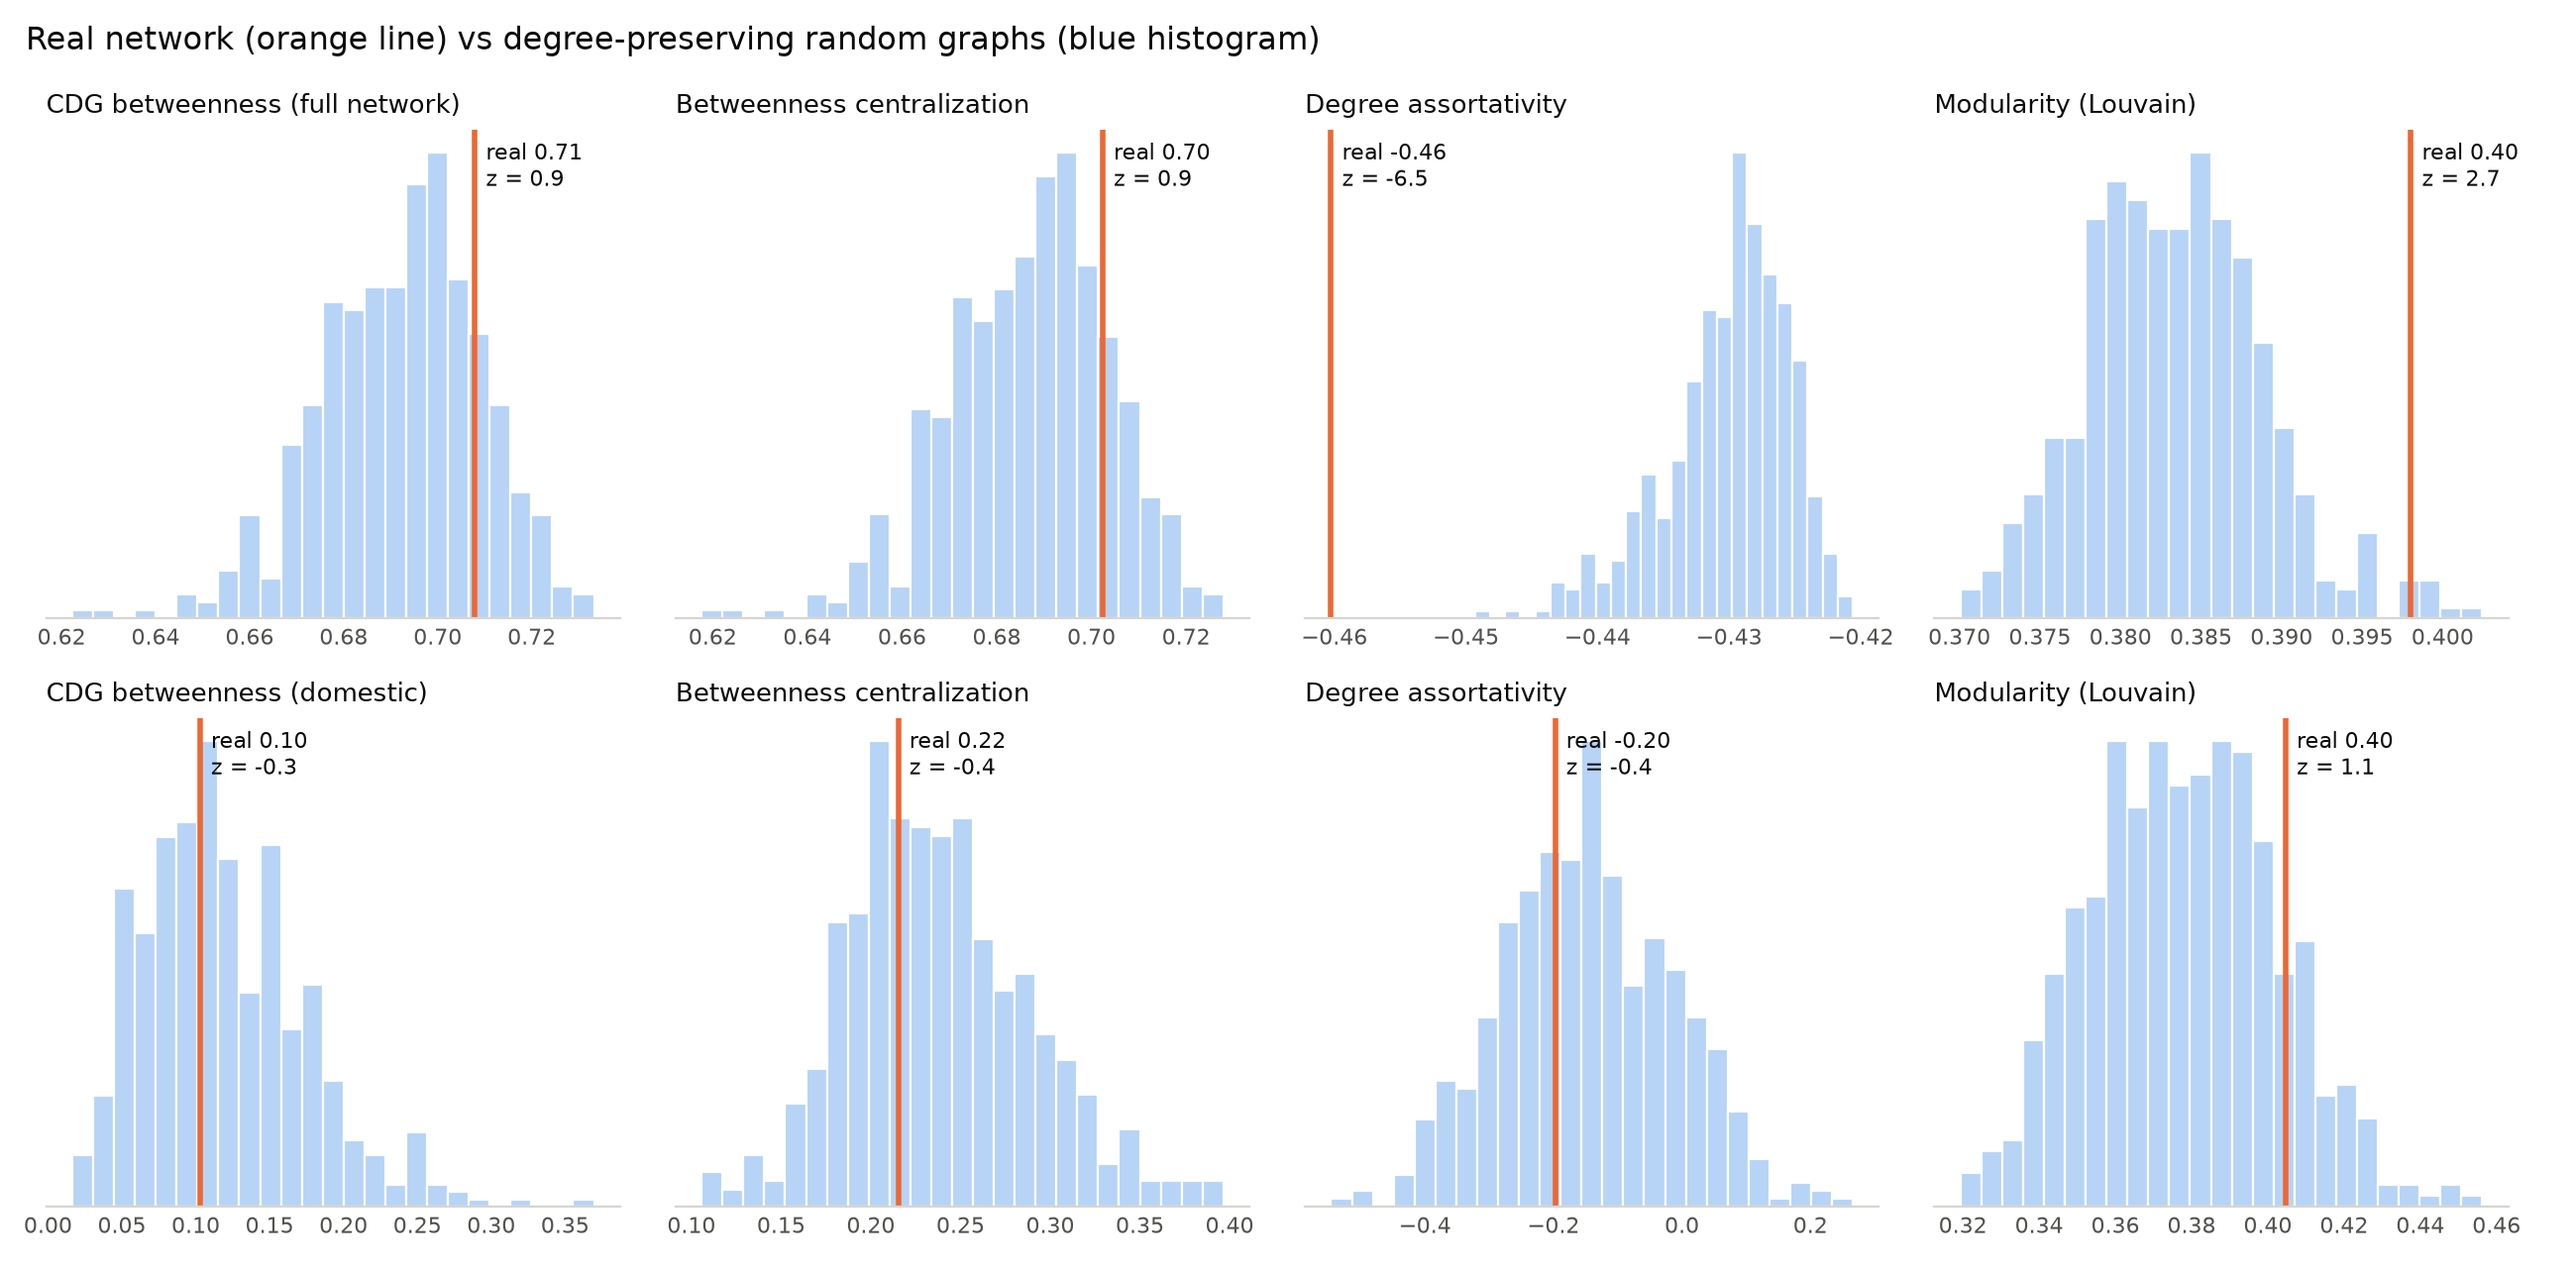
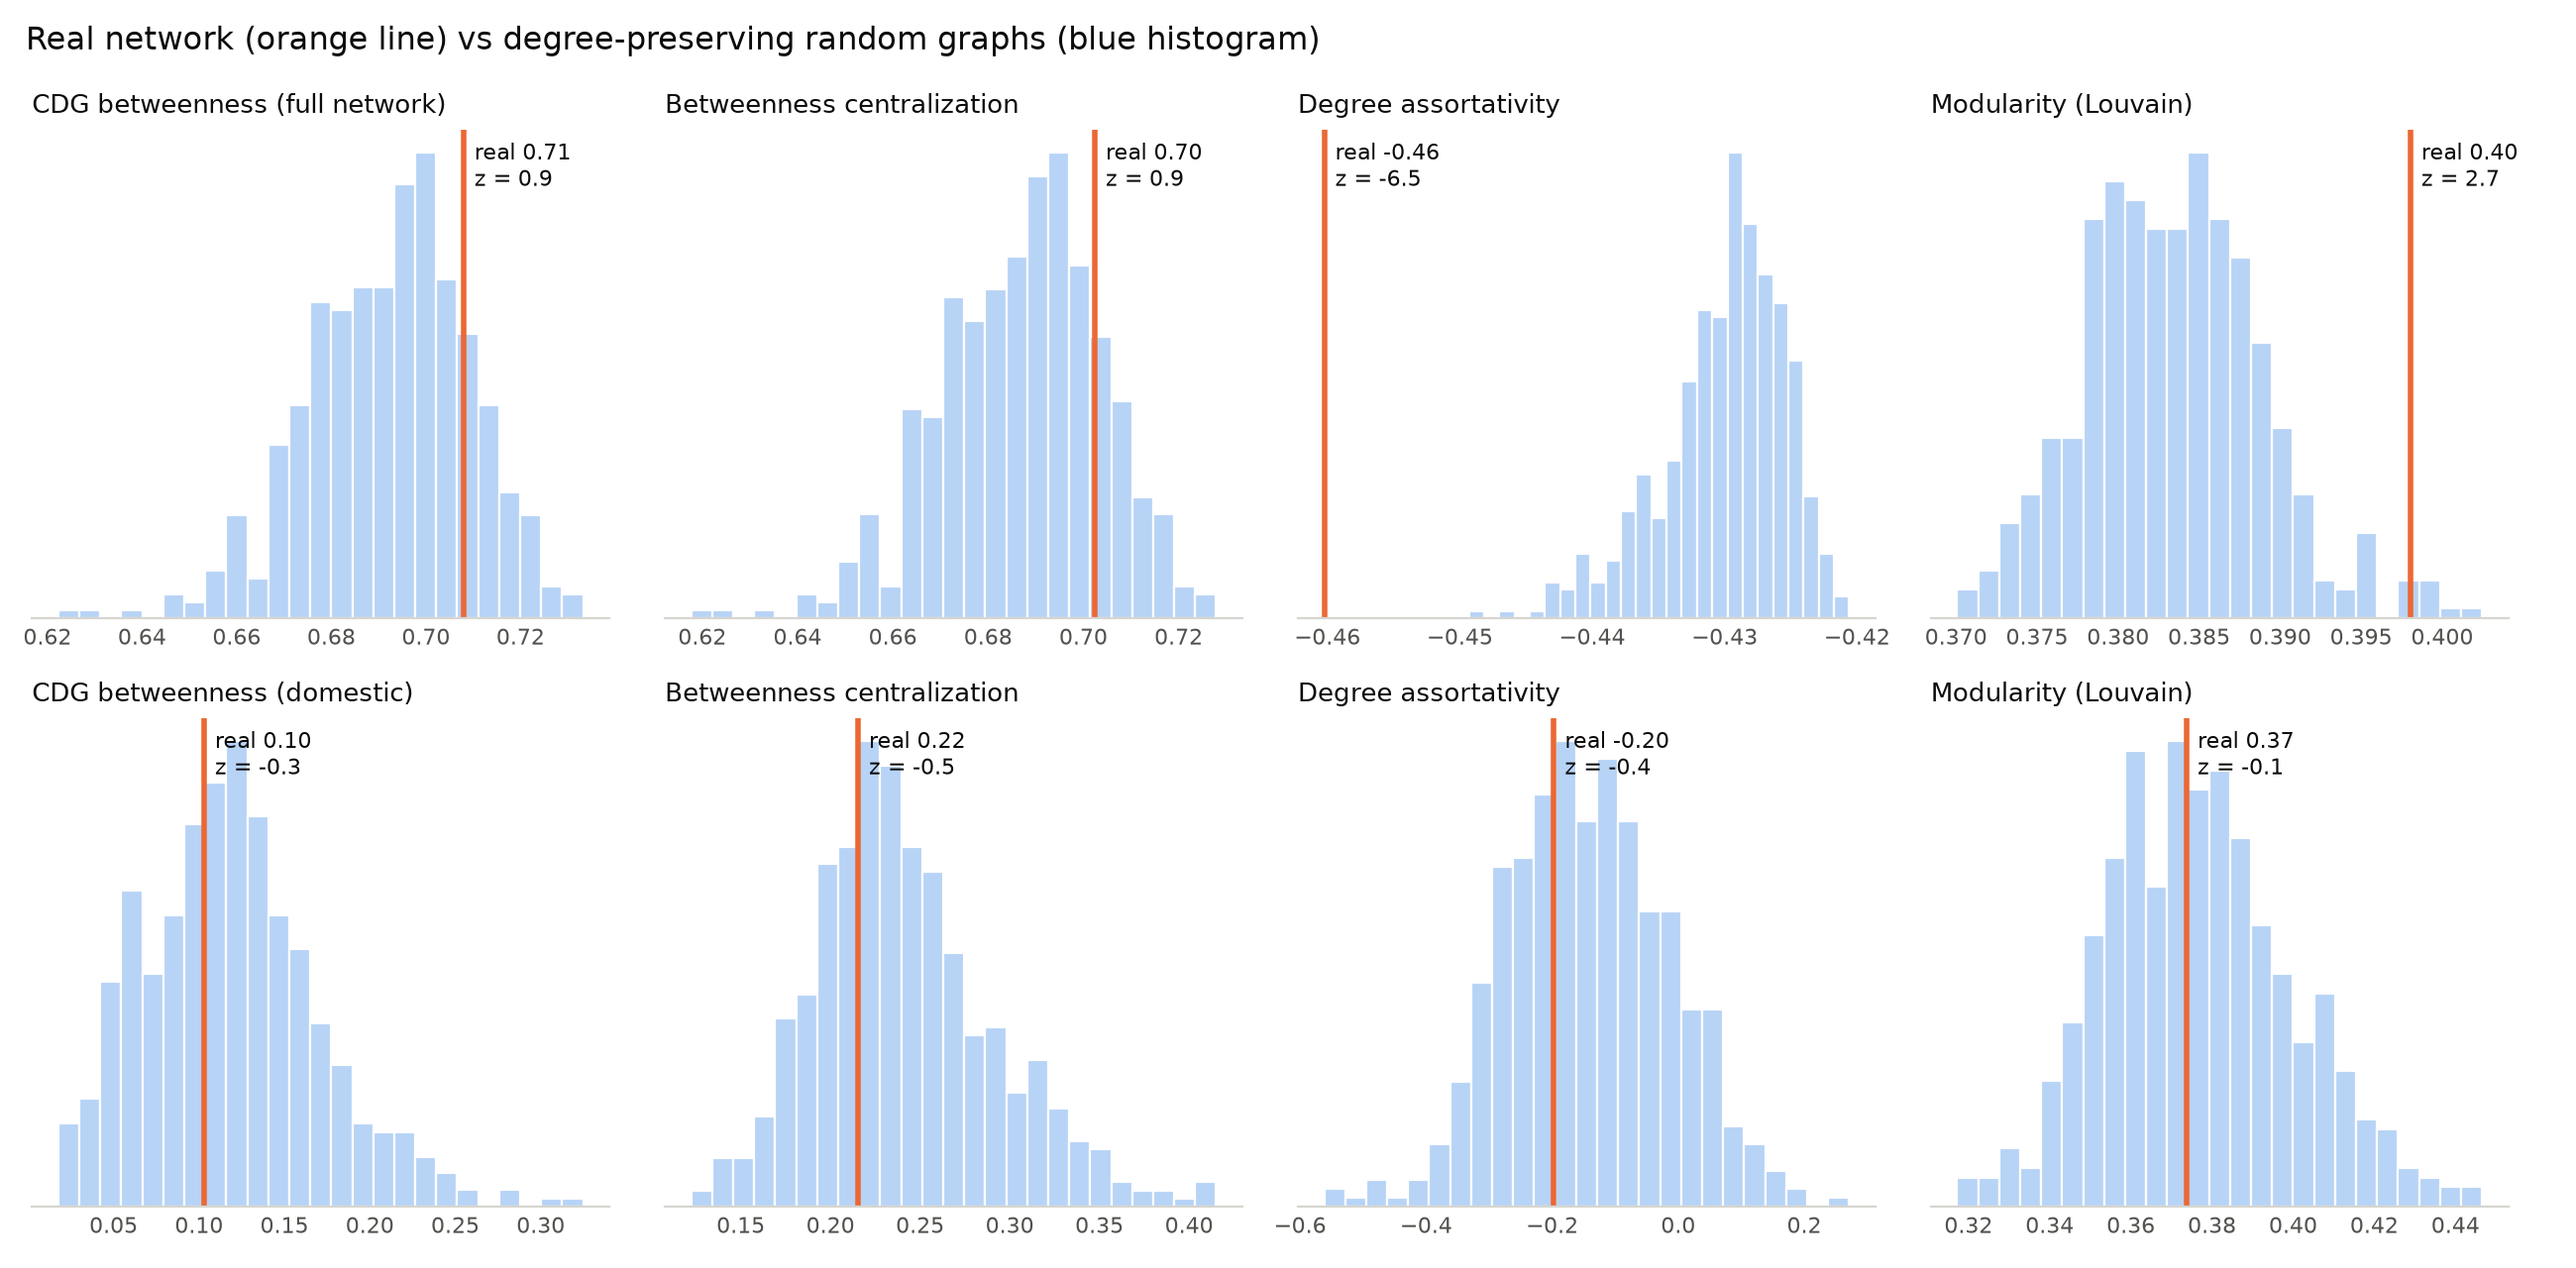
Make the domestic null model and the bipartite projection deterministic
Both built a graph from a set of airport codes (G.subgraph(...) and
weighted_projected_graph(B, set)), whose iteration order changes with
Python's string hashing on every run. The swaps and Louvain then saw a
different node order: the domestic null-model means and the number of
communities in the 2025 'shared, with Paris' projection (5 or 6) varied
between runs. The graphs are now rebuilt in sorted order; outputs are
identical under different PYTHONHASHSEED values. Conclusions unchanged.

diff --git a/src/bipartite_projection.py b/src/bipartite_projection.py
@@ -56,7 +56,9 @@ def french_side(B: nx.Graph) -> set[str]:
 
 def project(B: nx.Graph, method: str = "shared") -> nx.Graph:
     """Project B onto French airports. method: "shared" or "jaccard"."""
-    top = french_side(B)
+    # sorted: a set of codes iterates in a different order on each run (string
+    # hashing), which changes the projection's node order and hence Louvain
+    top = sorted(french_side(B))
     if method == "shared":
         P = bipartite.weighted_projected_graph(B, top)
     elif method == "jaccard":
@@ -65,13 +67,16 @@ def project(B: nx.Graph, method: str = "shared") -> nx.Graph:
         raise ValueError(f"unknown method {method!r}")
     for n in P:
         P.nodes[n]["foreign_destinations"] = B.degree(n)
-    return P
+    C = nx.Graph()  # same graph, nodes and edges in sorted order
+    C.add_nodes_from(sorted(P.nodes(data=True)))
+    C.add_edges_from(sorted((min(u, v), max(u, v), d) for u, v, d in P.edges(data=True)))
+    return C
 
 
 def evaluate(P: nx.Graph, label: str = "") -> dict:
     """Size, density, components, Louvain communities and modularity of P."""
     comms = louvain_communities(P, weight="weight", seed=SEED)
-    comms = sorted(comms, key=len, reverse=True)
+    comms = sorted(comms, key=lambda c: (-len(c), sorted(c)[0]))
     return {
         "variant": label,
         "nodes": P.number_of_nodes(),

diff --git a/src/null_model.py b/src/null_model.py
@@ -69,6 +69,14 @@ def constrained_swaps(G: nx.Graph, rng: random.Random, swaps_per_edge: int = 10)
     return R
 
 
+def canonical(G: nx.Graph) -> nx.Graph:
+    """Copy of G with nodes and edges inserted in sorted order (reproducible iteration)."""
+    H = nx.Graph()
+    H.add_nodes_from(sorted(G.nodes(data=True)))
+    H.add_edges_from(sorted((min(u, v), max(u, v), d) for u, v, d in G.edges(data=True)))
+    return H
+
+
 def hub_density(G: nx.Graph, k: int = 10) -> float:
     """Density among the k airports with the most routes (the hubs).
 
@@ -154,6 +162,10 @@ def run(year: int = 2025, n: int = 500):
     G = build_graph(year)
     F = G.subgraph([v for v, f in G.nodes(data="french") if f]).copy()
     F.remove_nodes_from(list(nx.isolates(F)))  # isolated airports cannot be rewired
+    # subgraph() iterates over a set of node codes, whose order changes with
+    # Python's string hashing from one run to the next; rebuild F in sorted
+    # order so the swaps and Louvain see the same graph every time.
+    F = canonical(F)
     tables, nulls = zip(*(compare(H, n, label) for H, label in
                           ((G, "full network"), (F, "domestic"))))
     return pd.concat(tables, ignore_index=True), pd.concat(nulls, ignore_index=True)
